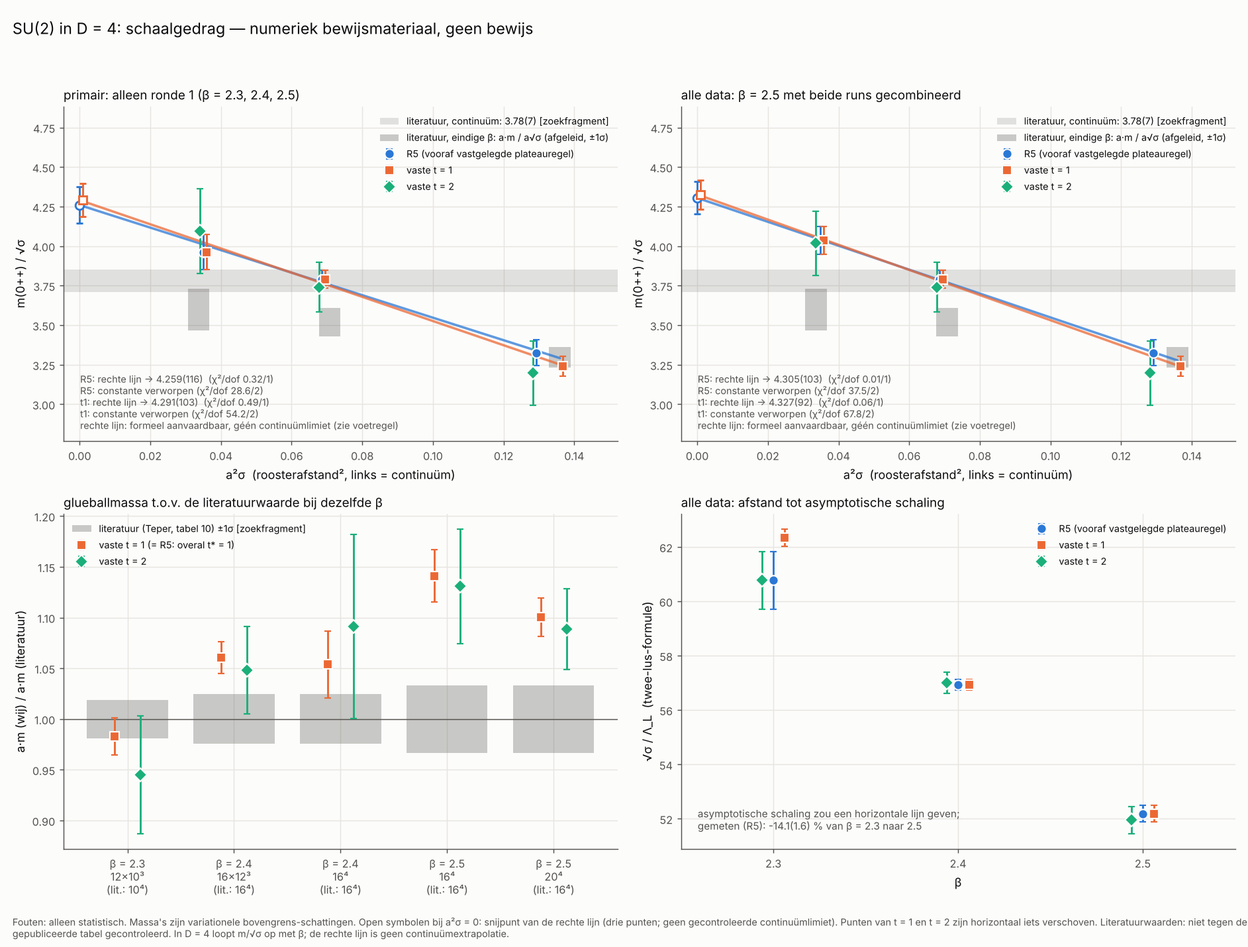
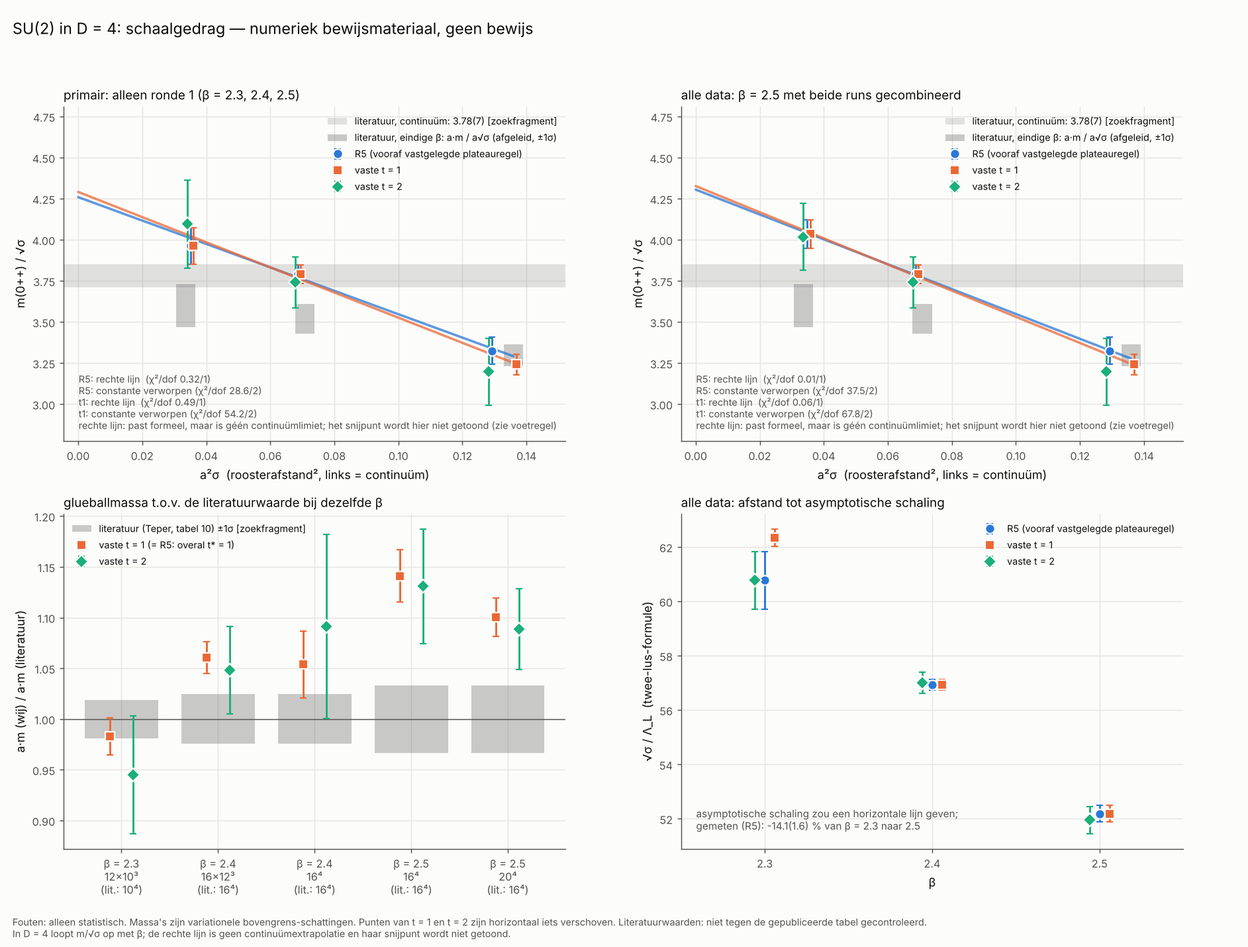
yang-mills: final honesty review, D=4 figure without extrapolation intercepts
Honesty review of REPORT.md, THEORY.md and README.md (verdict after its
edits: no sentence states or suggests a proof, a solution or a confirmed
mass gap). Its changes: m = c*Lambda labelled as expectation rather than a
theorem; the D=3 result marked as resting on a set chosen after a first look
at the data; the D=4 conclusion worded identically everywhere (nonzero gap at
each lattice spacing, m ~ 1/L excluded at beta = 2.4 and 2.5 with two box
sizes each, volume independence not shown, no evidence of scaling, no
continuum value); literature tensions named in the summary; terms explained
for a non-physicist. News passages: two of ten searches returned reports of a
published existence proof, eight did not; stated as unverified.

summarize.py: the D=4 scaling figure no longer prints or marks the intercept
of the straight line, which is not a continuum extrapolation.

Test suite on this tree: 369 collected, 340 passed, 29 skipped (default
run); the 29 slow tests passed in the number check.

Numerical evidence at finite lattice spacing and volume, not a proof.

Claude-Session: https://claude.ai/code/session_01TCvUCj2EBZLYoFjm36bYar

diff --git a/yang-mills/summarize.py b/yang-mills/summarize.py
@@ -2358,7 +2358,7 @@ def _sup(label):
     return (label.replace("^2", "²").replace("^3", "³").replace("^4", "⁴").replace("x", "×"))
 
 
-def _ratio_panel(ax, blk, lit_cont, derived, title, show_fit):
+def _ratio_panel(ax, blk, lit_cont, derived, title, show_fit, show_intercept=True):
     """m/sqrt(sigma) versus a^2 sigma for the three variants of one data set."""
     xmax = max(p["x"] for v in VARIANTS for p in blk[v]["points"] if ok(p["x"]))
     for d_ in derived:
@@ -2387,12 +2387,17 @@ def _ratio_panel(ax, blk, lit_cont, derived, title, show_fit):
             xs = np.array([0.0, xmax / 1.12])
             ax.plot(xs, fl["intercept"] + fl["slope"] * xs, color=COL[v], linewidth=2.0,
                     alpha=0.75, zorder=3, solid_capstyle="round")
-            ax.errorbar([dx[v]], [fl["intercept"]], yerr=[fl["intercept_err"]], fmt=MARK[v],
-                        color=COL[v], markersize=7, markerfacecolor=COL["surface"],
-                        markeredgecolor=COL[v], markeredgewidth=1.6, elinewidth=1.6, capsize=3,
-                        zorder=5)
-            lines.append(f"{v}: rechte lijn → {fmt_ve(fl['intercept'], fl['intercept_err'], 3)}"
-                         f"  (χ²/dof {fl['chi2']:.2f}/{fl['dof']}"
+            if show_intercept:
+                ax.errorbar([dx[v]], [fl["intercept"]], yerr=[fl["intercept_err"]],
+                            fmt=MARK[v], color=COL[v], markersize=7,
+                            markerfacecolor=COL["surface"], markeredgecolor=COL[v],
+                            markeredgewidth=1.6, elinewidth=1.6, capsize=3, zorder=5)
+            # where the straight line is not an extrapolation (D = 4) its intercept is not
+            # printed in the figure: the number is in summary.json, with its warning
+            lines.append(f"{v}: rechte lijn"
+                         + (f" → {fmt_ve(fl['intercept'], fl['intercept_err'], 3)}"
+                            if show_intercept else "")
+                         + f"  (χ²/dof {fl['chi2']:.2f}/{fl['dof']}"
                          + ("" if fl.get("acceptable") else f", p < {ACCEPT_P}") + ")")
         fc = blk[v].get("fit_constant")
         if fc and v in ("R5", "t1"):
@@ -2415,9 +2420,10 @@ def make_figures(S, outdir):
     recs = S["ensembles"]
     lc = S["literature_comparison"]
     files = []
+    foot_open = ("Open symbolen bij a²σ = 0: snijpunt van de rechte lijn (drie punten; geen "
+                 "gecontroleerde continuümlimiet). ")
     foot = ("Fouten: alleen statistisch. Massa's zijn variationele bovengrens-schattingen. "
-            "Open symbolen bij a²σ = 0: snijpunt van de rechte lijn (drie punten; geen "
-            "gecontroleerde continuümlimiet). Punten van t = 1 en t = 2 zijn horizontaal iets "
+            + foot_open + "Punten van t = 1 en t = 2 zijn horizontaal iets "
             "verschoven. Literatuurwaarden: niet tegen de gepubliceerde tabel gecontroleerd.")
 
     # ------------------------------------------------------------------ D = 3
@@ -2494,8 +2500,10 @@ def make_figures(S, outdir):
         der = [r for r in lc["derived_ratio_rows"] if r["ensemble"] in names]
         lines = _ratio_panel(ax, d4["sets"][set_name], d4["literature"]
                              ["continuum_m0pp_over_sqrt_sigma"], der, title,
-                             lambda fl: bool(fl) and fl.get("extrapolation_reported"))
-        lines.append("rechte lijn: formeel aanvaardbaar, géén continuümlimiet (zie voetregel)")
+                             lambda fl: bool(fl) and fl.get("extrapolation_reported"),
+                             show_intercept=False)
+        lines.append("rechte lijn: past formeel, maar is géén continuümlimiet; het snijpunt "
+                     "wordt hier niet getoond (zie voetregel)")
         ax.text(0.03, 0.03, "\n".join(lines), transform=ax.transAxes, fontsize=8,
                 color=COL["text2"], va="bottom", ha="left")
         _legend(ax, loc="upper right")
@@ -2551,8 +2559,9 @@ def make_figures(S, outdir):
     _legend(ax, loc="upper right")
     fig.suptitle(f"SU(2) in D = 4: schaalgedrag — {TAGLINE_NL}", color=COL["text"], fontsize=13,
                  x=0.01, ha="left")
-    fig.text(0.01, 0.008, foot + " In D = 4 loopt m/√σ op met β; de rechte lijn is geen "
-             "continuümextrapolatie.", fontsize=8, color=COL["text2"], ha="left", va="bottom",
+    fig.text(0.01, 0.008, foot.replace(foot_open, "") + "\nIn D = 4 loopt m/√σ op met β; de "
+             "rechte lijn is geen continuümextrapolatie en haar snijpunt wordt niet getoond.",
+             fontsize=8, color=COL["text2"], ha="left", va="bottom",
              wrap=True)
     fig.tight_layout(rect=(0, 0.04, 1, 0.955))
     path = os.path.join(outdir, "summary_scaling_d4.png")

diff --git a/yang-mills/REPORT.md b/yang-mills/REPORT.md
@@ -2,7 +2,7 @@
 
 **SU(2)-roostersimulaties in 2, 3 en 4 dimensies: wat er gemeten is, hoe het gecontroleerd is, en wat het wel en niet bewijst**
 
-Datum: 11 november 2026. Achtergrond en afleidingen: `THEORY.md`. Gebruik van de code: `README.md`.
+Datum: 11 en 12 november 2026. Achtergrond en afleidingen: `THEORY.md`. Gebruik van de code: `README.md`.
 
 > **Vooraf.** Dit rapport bevat *numeriek bewijsmateriaal* (aanwijzingen uit berekeningen) voor een massakloof in een roostermodel, bij eindige roosterafstand en eindig volume, met statistische fouten. Het bevat **geen bewijs** en lost het millenniumprobleem **niet** op.
 
@@ -14,9 +14,9 @@ Datum: 11 november 2026. Achtergrond en afleidingen: `THEORY.md`. Gebruik van de
 
 **Het millenniumprobleem is met dit werk niet opgelost.** Je vroeg om een oplossing en wilde geen "nee" horen, maar een eerlijk "ja" bestaat hier niet. Het probleem vraagt een wiskundig bewijs over een limiet (roosterafstand naar nul, volume naar oneindig, voor elke toegestane symmetriegroep); een simulatie levert eindig veel getallen met foutmarges, en daaruit volgt logisch geen bewijs, hoe lang je ook rekent.
 
-**Wat er wel is gedaan.** Een simulatieprogramma voor de eenvoudigste Yang–Mills-theorie (symmetriegroep SU(2)) op een rooster is gebouwd, getest en gebruikt om op negen roosters de massa *m* van het lichtste deeltje (de "glueball") te meten; die massa is de massakloof van het roostermodel. De uitkomsten zijn met een tweede, los geschreven analyse nagerekend en door twee kritische controles aangevallen.
+**Wat er wel is gedaan.** Een simulatieprogramma voor de eenvoudigste Yang–Mills-theorie (symmetriegroep SU(2)) op een rooster is gebouwd, getest en gebruikt om op negen roosters de massa *m* van het lichtste deeltje (de "glueball") te meten; die massa is de massakloof van het roostermodel op dat rooster. De uitkomsten zijn met een tweede, los geschreven analyse nagerekend en door twee kritische controles aangevallen.
 
-**Wat eruit komt.** *a·m* is de massa in roostereenheden; *m/√σ* is dezelfde massa in de natuurlijke eenheid van de theorie (de "snaarspanning" √σ) en hoort gelijk te blijven als het rooster fijner (grotere β) of de doos groter wordt.
+**Wat eruit komt.** *a·m* is de massa in roostereenheden (*a* is de afstand tussen de roosterpunten); *m/√σ* is dezelfde massa in de natuurlijke eenheid van de theorie (de "snaarspanning" √σ) en hoort gelijk te blijven als het rooster fijner (grotere β) of de doos groter wordt.
 
 | dimensie | β | rooster | a·m (t = 1) | a·m (t = 2) | m/√σ (t = 1) | m/√σ (vooraf vastgelegde regel R5) |
 |---|---|---|---|---|---|---|
@@ -31,9 +31,9 @@ Datum: 11 november 2026. Achtergrond en afleidingen: `THEORY.md`. Gebruik van de
 | 4 | 2.5 | 16⁴, beide runs samen | 0.7531(170) | 0.7463(371) | 4.036(87) | 4.036(87) |
 | 4 | 2.5 | 20⁴ (ronde 3) | 0.7263(125) | 0.7186(263) | 3.864(70) | 3.896(78) |
 
-Herkomst: [P] en `results/independent/<ensemble>.json`; alle tabellen in §3.2. "t = 1" en "t = 2" zijn waarden zonder keuze achteraf; de fout van een R5-getal is te klein (§2). Het negende rooster (20⁴ bij β = 2,5) is ronde 3: een extra controle met een vooraf vastgelegd criterium (§4.5).
+Herkomst: [P] en `results/independent/<ensemble>.json`; alle tabellen in §3.2. "t = 1" en "t = 2" zeggen over hoeveel tijdstappen van het rooster de massa is afgelezen; het zijn waarden zonder keuze achteraf. R5 is een vooraf vastgelegde regel die dat aantal tijdstappen zelf kiest; de fout van een R5-getal is te klein (§2). Het negende rooster (20⁴ bij β = 2,5) is ronde 3: een extra controle met een vooraf vastgelegd criterium (§4.5).
 
-**Wat dat betekent.** Dat de massa op elk rooster ongelijk aan nul is, is op een eindig rooster vanzelfsprekend en dus geen bewijsmateriaal. Het gaat om twee dingen: blijft *m/√σ* gelijk als het rooster fijner wordt, en krimpt de massa niet mee als de doos groter wordt? In drie dimensies blijft *m/√σ* bij vaste t = 1 binnen 1,1 tot 1,5 % gelijk terwijl de roosterafstand een factor 2,1 kleiner wordt; de vooraf vastgelegde meting bij β = 9 week af en kwam bij herhaling niet terug. In vier dimensies, het geval van het millenniumprobleem, is het beeld gemengd. De drie vooraf vastgelegde roosters lieten het patroon zien van een kloof die alleen door de eindige doos ontstaat: massa maal doosgrootte (*a·m·L*) was constant. Die lezing is op twee plekken met een groter rooster getoetst en beide keren uitgesloten: bij β = 2,4 (7,4σ) en, in ronde 3 met een vooraf vastgelegd criterium, bij β = 2,5 (6,7σ). Maar er is **geen aanwijzing voor schaalgedrag**: *m/√σ* loopt ook op de grootste roosters op met β (3,24, 3,72, 3,86 bij t = 1), en een continuümwaarde voor vier dimensies geven wij niet.
+**Wat dat betekent.** Dat de massa op elk rooster ongelijk aan nul is, is op een eindig rooster vanzelfsprekend en dus geen bewijsmateriaal. Het gaat om twee dingen: blijft *m/√σ* gelijk als het rooster fijner wordt, en krimpt de massa niet mee als de doos groter wordt? In drie dimensies blijft *m/√σ* bij vaste t = 1 binnen 1,1 tot 1,5 % gelijk terwijl de roosterafstand een factor 2,1 kleiner wordt; de vooraf vastgelegde meting bij β = 9 week af en kwam bij herhaling niet terug, en de waarde ligt 0,6 tot 2,1 % boven de gepubliceerde continuümwaarde (die wij alleen uit een zoekresultaat kennen). In vier dimensies, het geval van het millenniumprobleem, is het beeld gemengd. De drie vooraf vastgelegde roosters lieten het patroon zien van een kloof die alleen door de eindige doos ontstaat: massa maal doosgrootte (*a·m·L*) was constant. Die lezing is op twee plekken met een groter rooster getoetst en beide keren uitgesloten: bij β = 2,4 (7,4σ) en, in ronde 3 met een vooraf vastgelegd criterium, bij β = 2,5 (6,7σ). Maar er is **geen aanwijzing voor schaalgedrag**: *m/√σ* loopt ook op de grootste roosters op met β (3,24, 3,72, 3,86 bij t = 1), en een continuümwaarde voor vier dimensies geven wij niet. Bovendien liggen onze glueballmassa's in vier dimensies bij β = 2,4 en 2,5 tot 3,9σ boven gepubliceerde roosterwaarden (afhankelijk van de referentie); onze getallen zijn schattingen die eerder te hoog dan te laag uitvallen, maar dat dit de afwijking verklaart, is niet aangetoond (§4.8).
 
 **Wat het niet betekent.** Het is geen bewijs, geen continuümlimiet en geen uitspraak over andere groepen dan SU(2): het zijn aanwijzingen voor een massakloof in één roostermodel, redelijk in drie dimensies en zwak in vier, waar alleen is uitgesloten dat de kloof evenredig met de doos meekrimpt (*m* ∝ 1/L), en dat alleen bij β = 2,4 en 2,5 met telkens twee doosgroottes. De recente berichten over een door AI geproduceerd bewijs (§5.2) gaan, voor zover wij ze konden zien, alleen over het *bestaan* van de theorie; dat de massakloof open is, daarover zijn alle berichten het eens.
 
@@ -194,7 +194,7 @@ Herkomst: [A] uit [P]: L√σ = L × a√σ; a·m·L = L × m_eff(1); de fouten 
 
 ![Schaalgedrag in vier dimensies](results/summary_scaling_d4.png)
 
-*Figuur 2. Vier dimensies. Boven: m/√σ loopt op naar kleinere roosterafstand in plaats van vlak te worden; de rechte lijn en haar snijpunt zijn geen continuümextrapolatie. Linksonder: onze glueballmassa gedeeld door de literatuurwaarde bij dezelfde β. Rechtsonder: afstand tot de formule van §1.4. [`python3 summarize.py`]*
+*Figuur 2. Vier dimensies. Boven: m/√σ loopt op naar kleinere roosterafstand in plaats van vlak te worden; de rechte lijn is geen continuümextrapolatie, en haar snijpunt wordt in de figuur niet getoond. Linksonder: onze glueballmassa gedeeld door de literatuurwaarde bij dezelfde β. Rechtsonder: afstand tot de formule van §1.4. [`python3 summarize.py`]*
 
 ![Eindig-volumecontrole](results/summary_volume.png)
 
@@ -235,7 +235,7 @@ De set met de herhaling is na de eerste blik op ronde 1 samengesteld; dit is dus
 
 ### 3.5 Vier dimensies: wat de tabellen laten zien
 
-**De verhouding m/√σ is niet constant.** Ze loopt op van 3.325(82) bij β = 2,3 via 3.790(58) naar 4.036(87) bij β = 2,5: een stijging van 0.710(120), dat is 5,9σ [S §3a]. Dat is ruim twee keer de stijging van de gepubliceerde roosterwaarden over hetzelfde bereik (van 3.298(65) naar 3.599(130), afgeleid uit literatuurgetallen uit zoekfragmenten, [S §6b]). Een constante wordt verworpen (χ² = 37,5 bij 2). Een rechte lijn past formeel en komt bij *a* = 0 uit op een waarde ruim 4σ boven de literatuurwaarde 3.78(7) voor het continuüm [S §3a]; dat snijpunt is **geen** continuümlimiet en wij geven het niet als uitkomst. Ook het losse punt bij β = 2,5 ligt op 16⁴ 2,3σ boven 3.78(7); op 20⁴ is het 3.864(70), 0,8σ erboven [A].
+**De verhouding m/√σ is niet constant.** Ze loopt op van 3.325(82) bij β = 2,3 via 3.790(58) naar 4.036(87) bij β = 2,5: een stijging van 0.710(120), dat is 5,9σ [S §3a]. Dat is ruim twee keer de stijging van de gepubliceerde roosterwaarden over hetzelfde bereik (van 3.298(65) naar 3.599(130), afgeleid uit literatuurgetallen uit zoekfragmenten, [S §6b]). Een constante wordt verworpen (χ² = 37,5 bij 2). Een rechte lijn past formeel en komt bij *a* = 0 uit op een waarde ruim 4σ boven de literatuurwaarde 3.78(7) voor het continuüm [S §3a]; dat snijpunt is **geen** continuümlimiet en wij geven het niet als uitkomst. Ook het losse punt bij β = 2,5 ligt op 16⁴ 2,3σ boven 3.78(7); op 20⁴ is het 3.864(70), 0,8σ erboven [A]. Een punt bij eindige β is geen continuümwaarde; dat kleine verschil is dus geen overeenstemming met het continuüm.
 
 Met dezelfde *t* = 1 overal is de reeks 3.242(61), 3.790(58), 4.036(87) (tabel 2). De stijging is geen artefact van de plateauregel of van het vergelijken van ongelijke tijdsafstanden: bij gelijke fysische tijd (β = 2,5 bij *t* = 2 tegen β = 2,3 bij *t* = 1) is het verschil +0.776(199), 3,9σ. Tussen β = 2,4 en 2,5 alleen is het 2,1 tot 2,3σ [A], [C1]. De stijging wordt dus vooral bepaald door het punt bij β = 2,3, en juist daar is de snaarspanning het minst betrouwbaar: de torelon-energie daalt daar nog met *t* (1.2499(138), 1.1824(455), 1.0929(1292) bij *t* = 1, 2, 3 [P]), zodat een deel van de stijging kan komen van een te hoog geschatte snaarspanning bij β = 2,3.
 
@@ -315,7 +315,7 @@ Dit is de plek waar de vooraf vastgelegde aanpak zichtbaar faalde, en het verhaa
 | ronde 1 zonder eerste 10 %, t = 1 | 0.7772(58) | controlewaarde [O §5] |
 | beide runs zonder eerste 10 %, t = 1 | 0.7721(38) | controlewaarde [O §5] |
 
-De vertekeningen zijn modelschattingen (tweedimensionale normale verdeling met de fouten uit `results/d3_b9.0_L24.json`, correlatie 0,52), geen metingen [C1; voor dit rapport nagerekend, [A]]. Het script van deze schatting staat niet in `review/`. Een narekening bij de eindcontrole laat zien dat de uitkomst afhangt van de aangenomen selectiedrempel: bij een vereiste stijging van minstens 1 tot 2σ is het +0.007 tot +0.010 voor beide runs bij *t* = 2, +0.017 tot +0.026 voor ronde 1 bij *t* = 2 en +0.0003 tot +0.0004 voor beide runs bij *t* = 1. De lezing "R5 koos een uitschieter" is een verklaring achteraf; de vooraf vastgelegde waarde blijft wat ze is en staat in alle tabellen.
+De vertekeningen zijn modelschattingen (tweedimensionale normale verdeling met de fouten uit `results/d3_b9.0_L24.json`, correlatie 0,52), geen metingen [C1; voor dit rapport nagerekend, [A]]. Het oorspronkelijke script van deze schatting staat niet in `review/`; de narekening staat in `review/numcheck/bias_model.py`. Een narekening bij de eindcontrole laat zien dat de uitkomst afhangt van de aangenomen selectiedrempel: bij een vereiste stijging van minstens 1 tot 2σ is het +0.007 tot +0.010 voor beide runs bij *t* = 2, +0.017 tot +0.026 voor ronde 1 bij *t* = 2 en +0.0003 tot +0.0004 voor beide runs bij *t* = 1. De lezing "R5 koos een uitschieter" is een verklaring achteraf; de vooraf vastgelegde waarde blijft wat ze is en staat in alle tabellen.
 
 ### 4.5 Eindig volume
 
@@ -327,7 +327,7 @@ Er zijn drie vergelijkingen, klein rooster min groot rooster bij dezelfde β: é
 | D = 4, β = 2.4: 16×12³ en 16⁴ | 0.9926(148) | 0.9863(309) | 0.0064(343), +0.2σ | −0.0034(27), −1.2σ |
 | D = 4, β = 2.5: 16⁴ en 20⁴ (ronde 3) | 0.7531(170) | 0.7263(125) | 0.0268(211), +1.3σ | −0.0014(15), −0.9σ |
 
-- **Er is geen volume-afhankelijkheid van a·m gevonden** op het niveau van 1,3 % (D = 3, doos 50 % groter), 3,5 % (D = 4, β = 2,4, doos 33 % groter) en 2,8 % (D = 4, β = 2,5, doos 25 % groter; daar ligt de waarde op het grote rooster 3,6 % lager, 1,3σ). "Volume-onafhankelijk" is daarmee niet aangetoond. Een kloof die als 1/L met de doos meeschaalt, zou op het grote rooster 0.7972(51), 0.7445(111) en 0.6024(136) geven; dat is 26,7σ, 7,4σ en 6,7σ van de meting [A]. Daarmee is "de kloof is alleen een dooseffect" op deze drie plekken uitgesloten, over een factor 1,5, 1,33 en 1,25 in L.
+- **Er is geen significante volume-afhankelijkheid van a·m gevonden**: op het grote rooster is a·m 0,3 ± 1,3 % lager (D = 3, doos 50 % groter), 0,6 ± 3,5 % lager (D = 4, β = 2,4, doos 33 % groter) en 3,6 ± 2,8 % lager (D = 4, β = 2,5, doos 25 % groter; 1,3σ). "Volume-onafhankelijk" is daarmee niet aangetoond: een effect van enkele procenten past binnen deze fouten. Een kloof die als 1/L met de doos meeschaalt, zou op het grote rooster 0.7972(51), 0.7445(111) en 0.6024(136) geven; dat is 26,7σ, 7,4σ en 6,7σ van de meting [A]. Daarmee is "de kloof is alleen een dooseffect" (*m* ∝ 1/L) op deze drie plekken uitgesloten, over een factor 1,5, 1,33 en 1,25 in L.
 - **De torelon-energie groeit wél met de doos**, zoals bij een fluxbuis hoort: verhouding 1.555(21) bij een lengteverhouding 1,5 (D = 3) en 1.449(32) bij 1,333 (D = 4, β = 2,4), elk 1,2 tot 1,3σ boven de Nambu–Goto-voorspelling vanaf de kleine doos; in ronde 3 (D = 4, β = 2,5) is het 1.338(24) bij 1,25, 0,9σ boven die voorspelling [A].
 - **Wat ontbreekt.** In ronde 2 heeft het grotere rooster 1,8 tot 3,6 keer grotere fouten dan het kleine, zodat volume-effecten alleen op dat niveau zijn begrensd; in ronde 3 zijn de fouten op het grote rooster 0,7 tot 0,9 keer die op het kleine. In D = 3 gaf het grote rooster voor de snaarspanning geen plateau. Bij β = 2,3 is er geen tweede volume. Elke vergelijking bestaat uit twee doosgroottes; een extrapolatie naar oneindig volume is er niet.
 - **β = 2,4.** De snaarspanning op het kleine rooster, 0.26189(92), ligt 1,2σ onder die op het grote, 0.2653(26) (1,45σ met de Lüscher-formule). De fluxbuis is daar kort (L√σ = 3,14) en het verschil tussen de twee snaarformules (0,0008) is even groot als de statistische fout. De waarde 3.790(58) kan daardoor op het niveau van 2 % zijn verschoven; op het grote rooster is het 3.718(125).
@@ -452,7 +452,7 @@ Herkomst van beide tabellen: [S §6] (na `python3 summarize.py` met de huidige `
 5. **Snaarspanning in D = 3 bij β = 9** tegen de literatuurwaarde van een *groter* rooster (L = 32): −2,1 tot −2,9σ; tegen de waarde bij ons eigen L = 24 is het −0,6 tot −1,4σ.
 6. **Glueball in D = 3 bij β = 9, ronde 1:** +2,5σ voor de R5-waarde; dit is het niet-gerepliceerde punt van §4.4.
 7. **Afgeleide verhoudingen m/√σ bij eindige β:** +2,5σ (D = 4, β = 2,4, 16×12³), +2,8σ (D = 4, β = 2,5) en +2,7σ (D = 3, β = 9, ronde 1, R5) tegen verhoudingen die uit de literatuurgetallen hierboven zijn afgeleid [S §6b]; dit zijn geen nieuwe spanningen maar dezelfde als 1, 2, 3 en 6.
-8. **Continuümwaarden:** D = 4: het punt bij β = 2,5 ligt 2,3σ boven 3.78(7) (§3.5); D = 3: een constante ligt 0,8 tot 2,5σ boven 4.716(21) (§3.4).
+8. **Continuümwaarden:** D = 4: het punt bij β = 2,5 ligt op 16⁴ 2,3σ en op 20⁴ 0,8σ boven 3.78(7), maar een punt bij eindige β is geen continuümwaarde (§3.5); D = 3: een constante ligt 0,8 tot 2,5σ boven 4.716(21) (§3.4).
 9. **Onderling:** ronde 1 tegen herhaling bij β = 9: +2,9σ voor a·m bij *t* = 2, +2,7σ voor m/√σ (R5), −2,1σ voor de plaquette [S §5].
 
 Samengevat: van de zes vergelijkingen in D = 4 tussen een vooraf vastgelegd rooster en een literatuurgetal uit een zoekfragment (glueballmassa en snaarspanning bij drie β) liggen er drie boven 2σ: −3,1, +2,1 en +2,7. De twee glueball-afwijkingen hebben hetzelfde teken en kunnen één oorzaak delen. Onze waarden zijn bovengrens-schattingen bij één tijdstap; de verkennende fits van §4.7 zijn verenigbaar met de literatuur. De plaquettes en de snaarspanningen in D = 3 stemmen overeen, maar de plaquette-referenties komen uit het geheugen met een zelf toegekende marge en zeggen daardoor weinig.
@@ -492,9 +492,9 @@ Het probleem geldt als onopgelost: er is geen door de wiskundige gemeenschap gec
 - Volgens die berichten maakte OpenAI op 26 oktober 2026 bekend dat zijn AI-modellen een bewijs zouden hebben geproduceerd van het **bestaans**deel voor zuivere Yang–Mills-theorie in vier dimensies, geformaliseerd in de bewijsassistent Lean, en uitdrukkelijk **zonder** claim over de massakloof (`THEORY.md` §1).
 - Volgens berichten zei een werkgroep onder voorzitterschap van David Gross (Jaffe en Klebanov worden als leden genoemd) op 9 november dat zij de Lean-code van OpenAI en een eigen beoordeling op 10 november zou publiceren.
 - Twee zoekopdrachten op 11 november 2026 leverden berichten op, gedateerd 10 en 11 november, die zeggen dat de werkgroep de Lean-code en een eigen beoordeling heeft gepubliceerd. Volgens die berichten noemt de werkgroep haar beoordeling een eigen oordeel dat nog aan bredere toetsing onderworpen is, zeggen de beoordelaars het bewijs nog niet volledig te begrijpen, en geeft de constructie geen aanwijzing voor of tegen een massakloof.
-- Zes andere zoekopdrachten vonden die berichten **niet** terug: één op 11 november en vijf op 12 november, waaronder zoekopdrachten met juist de woorden uit die berichten. Zij leverden alleen berichtgeving van eind oktober en begin november op. Daarin staat dat de werkgroep het natuurkundige materiaal achterhoudt tot zij het zelf heeft opgeschreven, en dat een adviesgroep van wiskundigen om openbaarmaking heeft gevraagd. Eén van die zoekopdrachten meldde uitdrukkelijk geen beoordeling van de werkgroep en geen vrijgegeven Yang–Mills-code te hebben gevonden.
-- De berichten van 10 en 11 november komen van kleine sites, en zoekresultaten zijn niet reproduceerbaar. Of code en beoordeling werkelijk gepubliceerd zijn, kunnen wij dus niet vaststellen; de meeste van onze zoekopdrachten wijzen er niet op.
-- De zoekresultaten van 12 november omschrijven de claim breder dan het eerste punt: een bestaansbewijs voor bepaalde vierdimensionale kwantumveldentheorieën met ijkvelden en fermionen, waaronder QCD, waarvan zuivere Yang–Mills-theorie een onderdeel zou zijn. Over data spreken de berichten elkaar tegen.
+- Acht andere zoekopdrachten vonden die berichten **niet** terug: één op 11 november en zeven op 12 november, waaronder zoekopdrachten met juist de woorden uit die berichten. (De laatste twee zijn bij de eindcontrole gedaan: "Yang-Mills Lean code released working group assessment November 10 2026" en "Clay Mathematics Institute statement OpenAI Yang-Mills existence claim".) Zij leverden alleen berichtgeving van eind oktober en begin november op. Daarin staat dat de werkgroep het natuurkundige materiaal achterhoudt tot zij het zelf heeft opgeschreven, en dat een adviesgroep van wiskundigen om openbaarmaking heeft gevraagd. Twee van die zoekopdrachten meldden uitdrukkelijk geen beoordeling van de werkgroep en geen vrijgegeven Yang–Mills-code te hebben gevonden.
+- De berichten van 10 en 11 november komen van kleine sites, en zoekresultaten zijn niet reproduceerbaar. Of code en beoordeling werkelijk gepubliceerd zijn, kunnen wij dus niet vaststellen; de meeste van onze zoekopdrachten vonden er geen bericht over, wat op zichzelf ook niet bewijst dat het niet is gebeurd.
+- De zoekresultaten van 12 november omschrijven de claim breder dan het eerste punt: een bestaansbewijs voor bepaalde vierdimensionale kwantumveldentheorieën met ijkvelden en fermionen, waaronder QCD (één uittreksel noemt ook het Standaardmodel), waarvan zuivere Yang–Mills-theorie een onderdeel zou zijn. Over data spreken de berichten elkaar tegen.
 - Wij konden geen primaire bron openen en kunnen niet beoordelen of het geclaimde bewijs klopt. Een verklaring van het Clay-instituut over deze claim hebben wij niet gevonden; volgens de zoekresultaten staat het probleem op de lijst van het instituut nog als onopgelost.
 - Alle berichten zijn het erover eens dat er geen massakloof wordt geclaimd en dat het prijsprobleem open is.
 - De kanttekening in `THEORY.md` §1 is op 12 november bijgewerkt en zegt hetzelfde.
@@ -614,4 +614,4 @@ Kanttekeningen. De productiescripts geven elke stroom een tijdsbudget (`--maxtim
 
 Deze scripts horen niet bij de geteste code en zijn niet door de testsuite gedekt. De tussenbestanden waarin ze opnieuw gegenereerde stromen bewaren (ongeveer 110 MB), zijn niet opgenomen.
 
-**Wat voor dit rapport niet zelf is gecontroleerd.** De mutatietest van `summarize.py` (22 van 22) is overgenomen uit het verslag van die stap. Het aantal van 202 vergeleken getallen in §4.1 is bij de eindcontrole nageteld in `results/independent/<ensemble>.json` (202 voor ronde 1 en 2, 219 met ronde 3 erbij). De twee tendensen in §4.9 (derde punt), de schattingen "5 tot 10 %" en "2 tot 4 %" voor de bijmenging (§4.7) en de marges tot de fase-overgang zijn overgenomen uit de verslagen van de controles en hun werkbestanden. De literatuurgetallen zijn niet opnieuw opgezocht. De nieuwsberichten van §5.2 komen uit `THEORY.md` §1 en uit acht zoekopdrachten, drie op 11 en vijf op 12 november; geen enkele pagina is geopend. De testaantallen in §2 komen uit een volledige run bij de eindcontrole (standaardsuite en alle trage tests). Bij diezelfde eindcontrole zijn de tabellen 1 tot en met 3, de fits van §3.4 en §3.5, de volumevergelijkingen en ronde 3 (§4.5) en alle verschillen met de literatuur (§4.8) opnieuw berekend uit `results/<ensemble>.json`, `results/independent/<ensemble>.json` en `literature.json`; de scripts daarvan en de uitvoer van de testsuite staan in `review/numcheck/`.
+**Wat voor dit rapport niet zelf is gecontroleerd.** De mutatietest van `summarize.py` (22 van 22) is overgenomen uit het verslag van die stap. Het aantal van 202 vergeleken getallen in §4.1 is bij de eindcontrole nageteld in `results/independent/<ensemble>.json` (202 voor ronde 1 en 2, 219 met ronde 3 erbij). De twee tendensen in §4.9 (derde punt), de schattingen "5 tot 10 %" en "2 tot 4 %" voor de bijmenging (§4.7) en de marges tot de fase-overgang zijn overgenomen uit de verslagen van de controles en hun werkbestanden. De literatuurgetallen zijn niet opnieuw opgezocht. De nieuwsberichten van §5.2 komen uit `THEORY.md` §1 en uit tien zoekopdrachten, drie op 11 en zeven op 12 november; geen enkele pagina is geopend. De testaantallen in §2 komen uit een volledige run bij de eindcontrole (standaardsuite en alle trage tests). Bij diezelfde eindcontrole zijn de tabellen 1 tot en met 3, de fits van §3.4 en §3.5, de volumevergelijkingen en ronde 3 (§4.5) en alle verschillen met de literatuur (§4.8) opnieuw berekend uit `results/<ensemble>.json`, `results/independent/<ensemble>.json` en `literature.json`; de scripts daarvan en de uitvoer van de testsuite staan in `review/numcheck/`.

diff --git a/yang-mills/THEORY.md b/yang-mills/THEORY.md
@@ -2,7 +2,7 @@
 
 **Theorie, stand van zaken, en wat dit project wél en níet aantoont**
 
-> **Eerlijke kernboodschap.** Het millenniumprobleem "Yang–Mills: bestaan en massakloof" is op de datum van dit document (11 november 2026) **niet opgelost** (over een recente, nog niet te controleren claim die alleen het bestaansdeel betreft: zie de kanttekening in §1), en **dit project lost het ook niet op**. Geen enkele berekening in deze repository is een wiskundig bewijs. Wat hier wél staat: (1) de precieze probleemstelling, (2) de formules die echt vaststaan, elk met uitleg in gewone taal, en (3) de theorie achter de zorgvuldig geteste *numerieke aanwijzingen* (geen bewijs) voor een massakloof in SU(2)-roostertheorie in 2, 3 en 4 dimensies.
+> **Eerlijke kernboodschap.** Het millenniumprobleem "Yang–Mills: bestaan en massakloof" is op de datum van dit document (12 november 2026) **niet opgelost** (over een recente, nog niet te controleren claim die alleen het bestaansdeel betreft: zie de kanttekening in §1), en **dit project lost het ook niet op**. Geen enkele berekening in deze repository is een wiskundig bewijs. Wat hier wél staat: (1) de precieze probleemstelling, (2) de formules die echt vaststaan, elk met uitleg in gewone taal, en (3) de theorie achter de zorgvuldig geteste *numerieke aanwijzingen* (geen bewijs) voor een massakloof in SU(2)-roostertheorie in 2, 3 en 4 dimensies.
 
 ---
 
@@ -12,9 +12,9 @@ De vraag was: *"los het Yang–Mills-millenniumprobleem op en kom met de juiste 
 
 **1. Een erkend bewijs is er niet — ook hier niet.** Het probleem vraagt om een wiskundig bewijs over een limiet (roosterafstand naar nul, volume naar oneindig). Een computer kan maar eindig veel roosters doorrekenen, dus een simulatie kan zo'n bewijs per definitie niet leveren (zie §8). En een door een AI-systeem geschreven "bewijs" telt pas als bewijs wanneer vakgenoten elke stap hebben gecontroleerd; in deze sessie is geen bewijs gevonden, en doen alsof zou oneerlijk zijn.
 
-**2. "De juiste formule" voor de massakloof bestaat niet als gesloten uitdrukking.** Wat wél vaststaat is het volgende.
+**2. "De juiste formule" voor de massakloof bestaat niet als gesloten uitdrukking.** Wat wél vaststaat, en wat alleen natuurkundige verwachting is, is het volgende.
 
-- De massakloof $m$ van de vierdimensionale theorie is een vast getal maal de enige schaal die de theorie zelf voortbrengt (§4):
+- *Verwachting, geen stelling:* áls de vierdimensionale theorie bestaat en een massakloof $m$ heeft, dan is die een vast getal maal de enige schaal die de theorie zelf voortbrengt (§4). Dat $c_G \gt 0$ is, is precies wat niet bewezen is:
 
 $$
 m = c_G \cdot \Lambda , \qquad \Lambda = \mu \cdot \left(b_0 g^2\right)^{-b_1/(2b_0^2)} \exp\left(-\frac{1}{2 b_0 g^2}\right)\left(1+O(g^2)\right).
@@ -84,7 +84,7 @@ Jaffe en Witten leggen ook uit waarom dit natuurkundig belangrijk is: om de ster
 >
 > *Wat die uittreksels verder zeggen.* (a) Het bewijs was volgens de berichten van eind oktober en begin november **niet openbaar**: een commissie van vijf natuurkundigen onder voorzitterschap van David Gross (genoemd worden verder Michael Douglas, Arthur Jaffe, Igor Klebanov en Nikita Nekrasov) houdt het materiaal achter totdat zij het zelf heeft beoordeeld en opgeschreven. (b) Een onafhankelijke adviesgroep van wiskundigen (de "Advisory Group on Mathematics and Artificial Intelligence") heeft om openbaarmaking gevraagd. (c) Niemand buiten die kring heeft het bewijs kunnen controleren, en er zijn sceptische reacties van vakgenoten. (d) Dezelfde berichtgeving noemt een afzonderlijke, eveneens nog ongetoetste claim van de wiskundigen Alpöge en Sussman over het bestaansprobleem; over de reikwijdte daarvan (drie dimensies, of ook $\mathbb{R}^4$) zijn de uittreksels het niet eens.
 >
-> *Tegenstrijdige berichten over openbaarmaking (aanvulling van 12 november 2026).* Twee zoekopdrachten op 11 november leverden berichten van kleine sites op, gedateerd 10 en 11 november, die zeggen dat de commissie de Lean-code en een eigen beoordeling heeft gepubliceerd; volgens die berichten noemt de commissie dat een eigen oordeel dat nog bredere toetsing nodig heeft, en zegt zij het bewijs nog niet volledig te begrijpen. Zes andere zoekopdrachten, één op 11 en vijf op 12 november, vonden die berichten niet terug en leverden alleen de oudere berichtgeving op dat het materiaal wordt achtergehouden. Wij weten dus niet of het geclaimde bewijs inmiddels openbaar is. De zoekresultaten van 12 november omschrijven de claim bovendien breder: bestaan van bepaalde vierdimensionale kwantumveldentheorieën met ijkvelden en fermionen, waaronder QCD, met zuivere Yang–Mills-theorie als onderdeel. De links staan in `REPORT.md` §5.2.
+> *Tegenstrijdige berichten over openbaarmaking (aanvulling van 12 november 2026).* Twee zoekopdrachten op 11 november leverden berichten van kleine sites op, gedateerd 10 en 11 november, die zeggen dat de commissie de Lean-code en een eigen beoordeling heeft gepubliceerd; volgens die berichten noemt de commissie dat een eigen oordeel dat nog bredere toetsing nodig heeft, en zegt zij het bewijs nog niet volledig te begrijpen. Acht andere zoekopdrachten, één op 11 en zeven op 12 november (de laatste twee bij de eindcontrole van `REPORT.md`), vonden die berichten niet terug en leverden alleen de oudere berichtgeving op dat het materiaal wordt achtergehouden. Wij weten dus niet of het geclaimde bewijs inmiddels openbaar is. De zoekresultaten van 12 november omschrijven de claim bovendien breder: bestaan van bepaalde vierdimensionale kwantumveldentheorieën met ijkvelden en fermionen, waaronder QCD, met zuivere Yang–Mills-theorie als onderdeel. De links staan in `REPORT.md` §5.2.
 >
 > *Wat wij níet konden vaststellen.* Wij konden geen enkele primaire bron openen — niet de aankondiging zelf, geen artikel of preprint met het bewijs, geen verklaring van het Clay-instituut; de netwerktoegang van deze sessie liet alleen zoekresultaten toe. De uittreksels spreken elkaar bovendien op details (data, precieze reikwijdte van de claim) tegen. Een verklaring van het Clay-instituut over deze claim hebben wij niet gevonden.
 >
@@ -494,7 +494,7 @@ Verificatiestatus van elke verwijzing staat in de Referenties (§9): ✔ = titel
 
 1. **Dat de code klopt**, door vergelijking met formules die exact bekend zijn (§5.6): in $D=2$ de plaquette, Wilson-lussen en de torelon-energie; bij kleine $\beta$ in $D=3,4$ de sterke-koppelingsreeks.
 2. **Of de code bekende resultaten reproduceert** in $D=3$ en $D=4$: plaquette, snaarspanning en glueballmassa vergeleken met de literatuurwaarden in `literature.json` (waarin per getal staat of het in deze sessie is teruggevonden of uit het geheugen komt). Uitkomst (§7.3): gehaald voor de plaquette en voor de snaarspanning in $D=3$; niet gehaald voor de glueballmassa in $D=4$ bij $\beta=2{,}4$ en $2{,}5$ en voor de snaarspanning bij $\beta=2{,}4$ op $L=12$.
-3. **Numerieke aanwijzingen voor een massakloof**: nagaan of op de gesimuleerde roosters de glueballmassa $am$ en de snaarspanning $a^2\sigma$ binnen de foutmarge ongelijk aan nul zijn, en of de dimensieloze verhouding $m/\sqrt\sigma$ weinig verandert als het rooster fijner wordt ("schaling"), zoals verwacht als de continuümtheorie een kloof $m = c\cdot\Lambda$ heeft. Of en hoe goed dit gelukt is, staat in §7.3; een toets die niet slaagt wordt daar als zodanig gemeld. Uitkomst: de schaaltoets is in $D=3$ gehaald binnen 1 à 2 % en in $D=4$ niet gehaald.
+3. **Numerieke aanwijzingen voor een massakloof**: nagaan of op de gesimuleerde roosters de glueballmassa $am$ en de snaarspanning $a^2\sigma$ binnen de foutmarge ongelijk aan nul zijn, en of de dimensieloze verhouding $m/\sqrt\sigma$ weinig verandert als het rooster fijner wordt ("schaling"), zoals verwacht als de continuümtheorie een kloof $m = c\cdot\Lambda$ heeft. Of en hoe goed dit gelukt is, staat in §7.3; een toets die niet slaagt wordt daar als zodanig gemeld. Uitkomst: in $D=3$ is de schaaltoets bij vaste t gehaald binnen 1 à 2 %, maar alleen met een set die na de eerste blik op de data is samengesteld (de vooraf vastgelegde R5-set faalde, §7.3); in $D=4$ is ze niet gehaald.
 
 ### 7.2 Wat de simulaties níet aantonen
 
@@ -533,7 +533,7 @@ Ronde 3 (d4_b2.5_L20) is een volumecontrole op $20^4$ bij $\beta=2{,}5$; doel, v
 
 **Wat niet geslaagd is.** (i) De vooraf vastgelegde waarde in $D=3$ bij $\beta=9$, 0.8041(123), kwam bij herhaling met nieuwe seeds niet terug (0.7584(99), een verschil van 2,9σ); de plateauregel had een toevalsfluctuatie gekozen. (ii) In $D=4$ is de schaaltoets van §7.1 punt 3 niet gehaald: $m/\sqrt\sigma$ loopt op van 3.325(82) naar 4.036(87) (5,9σ), terwijl $am\cdot L$ over de drie vooraf vastgelegde roosters constant is (11.951(223), 11.912(177), 11.871(345)). Dat laatste is het patroon van een kloof die alleen door de eindige doos ontstaat. Die lezing is wel met grotere roosters uitgesloten, bij $\beta=2{,}4$ (7,4σ) en bij $\beta=2{,}5$ (6,7σ, ronde 3), maar de stijging van $m/\sqrt\sigma$ blijft: op het grootste rooster per $\beta$ is de verhouding bij t = 1 gelijk aan 3.242(61), 3.718(125), 3.864(70). (iii) Punt 2 van §7.1 is voor $D=4$ maar ten dele gehaald: de glueballmassa ligt bij $\beta=2{,}4$ 2,1σ en bij $\beta=2{,}5$ 1,0 tot 3,9σ op $16^4$ en 0,2 tot 3,2σ op $20^4$ (afhankelijk van de referentie) boven literatuurwaarden, en de snaarspanning bij $\beta=2{,}4$ op het rooster $16\times12^3$ ligt 3,1σ onder de literatuurwaarde. Die literatuurwaarden zijn alleen in zoekfragmenten gezien.
 
-**Conclusie.** Op elk gesimuleerd rooster is de kloof ongelijk aan nul, maar dat is op een eindig rooster vanzelfsprekend (§5.5). Als numeriek bewijsmateriaal voor een massakloof telt alleen de stabiliteit onder verfijning en vergroting van het rooster: die is er binnen 1 à 2 % in $D=3$. In $D=4$ is van het tweede alleen dit aangetoond, bij $\beta=2{,}4$ en $\beta=2{,}5$ met telkens twee doosgroottes: de kloof krimpt niet evenredig met de doos mee ($m\propto1/L$ is uitgesloten); volume-onafhankelijkheid is daarmee niet aangetoond. Stabiliteit onder verfijning is in $D=4$ niet aangetoond, en een continuümwaarde voor $D=4$ geven wij niet. Niets hiervan is een bewijs. (De kanttekening over recente berichten in §1 is op 12 november 2026 bijgewerkt; zie ook `REPORT.md` §5.2.)
+**Conclusie.** Op elk gesimuleerd rooster is de kloof ongelijk aan nul, maar dat is op een eindig rooster vanzelfsprekend (§5.5). Als numeriek bewijsmateriaal voor een massakloof telt alleen de stabiliteit onder verfijning en vergroting van het rooster. In $D=3$ is $m/\sqrt\sigma$ bij vaste t stabiel binnen 1 à 2 % over een factor 2,1 in roosterafstand (met een achteraf samengestelde set, en 0,6 tot 2,1 % boven de gepubliceerde continuümwaarde), en verandert $am$ niet meetbaar bij één vergroting van de doos; $D=3$ is echter niet het geval van het Clay-probleem. In $D=4$ is van het tweede alleen dit aangetoond, bij $\beta=2{,}4$ en $\beta=2{,}5$ met telkens twee doosgroottes: de kloof krimpt niet evenredig met de doos mee ($m\propto1/L$ is uitgesloten); volume-onafhankelijkheid is daarmee niet aangetoond. Stabiliteit onder verfijning is in $D=4$ niet aangetoond, en een continuümwaarde voor $D=4$ geven wij niet. Niets hiervan is een bewijs. (De kanttekening over recente berichten in §1 is op 12 november 2026 bijgewerkt; zie ook `REPORT.md` §5.2.)
 
 ---
 
@@ -541,7 +541,7 @@ Ronde 3 (d4_b2.5_L20) is een volumecontrole op $20^4$ bij $\beta=2{,}5$; doel, v
 
 **Een simulatie.** Het millenniumprobleem is een uitspraak over oneindig veel schalen tegelijk (alle $a\to0$, alle volumes). Een simulatie levert eindig veel getallen met statistische onzekerheid. Uit eindig veel benaderende getallen volgt logisch niets over een limiet, tenzij je vooraf *bewezen* foutgrenzen hebt — en die ontbreken hier juist (§5.5). Computerondersteunde bewijzen bestaan wel (vierkleurenstelling, vermoeden van Kepler), maar daar is het probleem eerst door een wiskundig argument teruggebracht tot een eindige, exact controleerbare berekening. Zo'n reductie is voor Yang–Mills niet bekend. Monte-Carlo-resultaten zijn bovendien kansuitspraken, geen zekerheden.
 
-**Een AI-systeem.** Een taalmodel kan tekst produceren die eruitziet als een bewijs. Of zo'n tekst een bewijs *is*, hangt niet af van hoe overtuigend hij klinkt, maar van de vraag of elke stap klopt — en dat moet worden gecontroleerd door deskundigen of door een formeel bewijscontroleprogramma, waarbij ook nog moet worden nagegaan dat de geformaliseerde uitspraak werkelijk het bedoelde probleem is. De obstakels van §4 zijn inhoudelijk: volgens de experts zijn nieuwe wiskundige ideeën nodig. In deze sessie zijn zulke ideeën niet gevonden, en doen alsof zou oneerlijk zijn. De geschiedenis kent bovendien claims die de toetsing niet doorstonden (bijvoorbeeld een in 2007 als preprint verschenen claim van opsluiting voor alle koppelingen in SU(2)-roostertheorie, waar vakgenoten een lacune in aanwezen — uit het geheugen geciteerd). De in §1 genoemde berichten over een door AI geproduceerd bestaansbewijs illustreren hetzelfde punt: volgens die berichten bestaat er weliswaar een formalisering in een bewijscontroleprogramma, maar zijn bewijs en formalisering niet openbaar, moet het werk nog door vakgenoten worden gecontroleerd (inclusief de vraag of de geformaliseerde uitspraak werkelijk het bedoelde probleem is), en betreft het niet de massakloof.
+**Een AI-systeem.** Een taalmodel kan tekst produceren die eruitziet als een bewijs. Of zo'n tekst een bewijs *is*, hangt niet af van hoe overtuigend hij klinkt, maar van de vraag of elke stap klopt — en dat moet worden gecontroleerd door deskundigen of door een formeel bewijscontroleprogramma, waarbij ook nog moet worden nagegaan dat de geformaliseerde uitspraak werkelijk het bedoelde probleem is. De obstakels van §4 zijn inhoudelijk: volgens de experts zijn nieuwe wiskundige ideeën nodig. In deze sessie zijn zulke ideeën niet gevonden, en doen alsof zou oneerlijk zijn. De geschiedenis kent bovendien claims die de toetsing niet doorstonden (bijvoorbeeld een in 2007 als preprint verschenen claim van opsluiting voor alle koppelingen in SU(2)-roostertheorie, waar vakgenoten een lacune in aanwezen — uit het geheugen geciteerd). De in §1 genoemde berichten over een door AI geproduceerd bestaansbewijs illustreren hetzelfde punt: volgens die berichten bestaat er weliswaar een formalisering in een bewijscontroleprogramma, maar waren bewijs en formalisering volgens de berichten van eind oktober en begin november niet openbaar (of ze dat inmiddels zijn, daarover spreken onze zoekresultaten elkaar tegen, §1), moet het werk nog door vakgenoten worden gecontroleerd (inclusief de vraag of de geformaliseerde uitspraak werkelijk het bedoelde probleem is), en betreft het niet de massakloof.
 
 **Hoe een echte oplossing eruit zou zien.**
 

diff --git a/yang-mills/README.md b/yang-mills/README.md
@@ -5,7 +5,12 @@ met analyse van de lichtste glueballmassa en de snaarspanning.
 
 **Wat dit is — en wat niet.** Dit project levert *numeriek bewijsmateriaal* voor een massakloof
 in het roostermodel: een lichtste glueballmassa en een snaarspanning die niet nul zijn, bij
-eindige roosterafstand en eindig volume, met statistische fouten. Het is **geen bewijs** van het
+eindige roosterafstand en eindig volume, met statistische fouten. Een massa ongelijk aan nul is
+op een eindig rooster vanzelfsprekend; wat telt, staat in `REPORT.md` §0: in D = 3 is m/√σ bij
+vaste t stabiel binnen 1 à 2 % over een factor 2,1 in roosterafstand (achteraf samengestelde
+set); in D = 4 is alleen uitgesloten dat de kloof als 1/L met de doos meekrimpt (bij β = 2,4 en
+2,5, telkens met twee doosgroottes), is volume-onafhankelijkheid niet aangetoond en is er geen
+aanwijzing voor schaalgedrag. Het is **geen bewijs** van het
 millenniumprobleem "Yang–Mills: bestaan en massakloof" en mag nooit zo worden gepresenteerd. De
 achtergrond en de precieze reikwijdte staan in `THEORY.md`; literatuurwaarden (met bron en
 betrouwbaarheid) in `literature.json`.
@@ -86,8 +91,8 @@ python3 run_production.py --shape 16,16,16 --beta 6.0 --ntherm 1000 --nmeas 2000
   (stabiliteitsgrens; het programma waarschuwt).
 - β moet eindig en ≥ 0 zijn; de toevalsgenerator is één stroom per proces (één rooster per
   proces draaien).
-- De gedraaide ensembles, seeds en tijdsbudgetten staan in `run_all_production.sh` en
-  `run_extra_production.sh` (4 stromen per ensemble, afwisselend warme en koude start).
+- De gedraaide ensembles, seeds en tijdsbudgetten staan in `run_all_production.sh`,
+  `run_extra_production.sh` en `run_round3_production.sh` (4 stromen per ensemble, afwisselend warme en koude start).
   Ruwe data komen in `results/raw/` (niet in git; reproduceerbaar uit de seeds).
 
 ## Analyse
@@ -127,7 +132,8 @@ Deze staan ook in elk JSON-bestand onder `caveats`.
 
 ## Herkomst van de data
 
-De productieruns zijn gedraaid met de code van git-commit `8613969`. Latere wijzigingen aan
+De productieruns van ronde 1 en 2 zijn gedraaid met de code van git-commit `8613969`; voor
+ronde 3 zegt `run_round3_production.sh` dat dezelfde code-snapshot is gebruikt. Latere wijzigingen aan
 `ym/lattice.py` (alleen controle van β) veranderen geen enkel getal dat een productierun
 wegschrijft; dat is bit voor bit nagegaan. Wijzigingen aan `analyze.py` zijn puur toevoegend
 (extra velden); `ym/stats.py` geeft alleen een ander τ_int in het geval dat stromen sterk in

diff --git a/yang-mills/results/summary.md b/yang-mills/results/summary.md
@@ -1,6 +1,6 @@
 # Samenvatting over alle ensembles — numeriek bewijsmateriaal, geen bewijs
 
-Gegenereerd door `python3 summarize.py` uit `results/<ensemble>.json` (uitvoer van `analyze.py`, niet gewijzigd) en `literature.json`. Machineleesbaar: `results/summary.json`. Tijdstip: 2026-11-11T23:46:20Z.
+Gegenereerd door `python3 summarize.py` uit `results/<ensemble>.json` (uitvoer van `analyze.py`, niet gewijzigd) en `literature.json`. Machineleesbaar: `results/summary.json`. Tijdstip: 2026-11-12T00:43:14Z.
 
 **Wat dit is — en wat niet.** Monte-Carlo-resultaten voor zuivere SU(2)-roosterijktheorie (Wilson-actie) bij eindige roosterafstand en eindig volume, met alleen statistische fouten; de massa's zijn variationele bovengrens-schattingen. Dit is **numeriek bewijsmateriaal** voor een massakloof in het roostermodel, **geen bewijs**: het millenniumprobleem is open en wordt hier niet opgelost.
 
